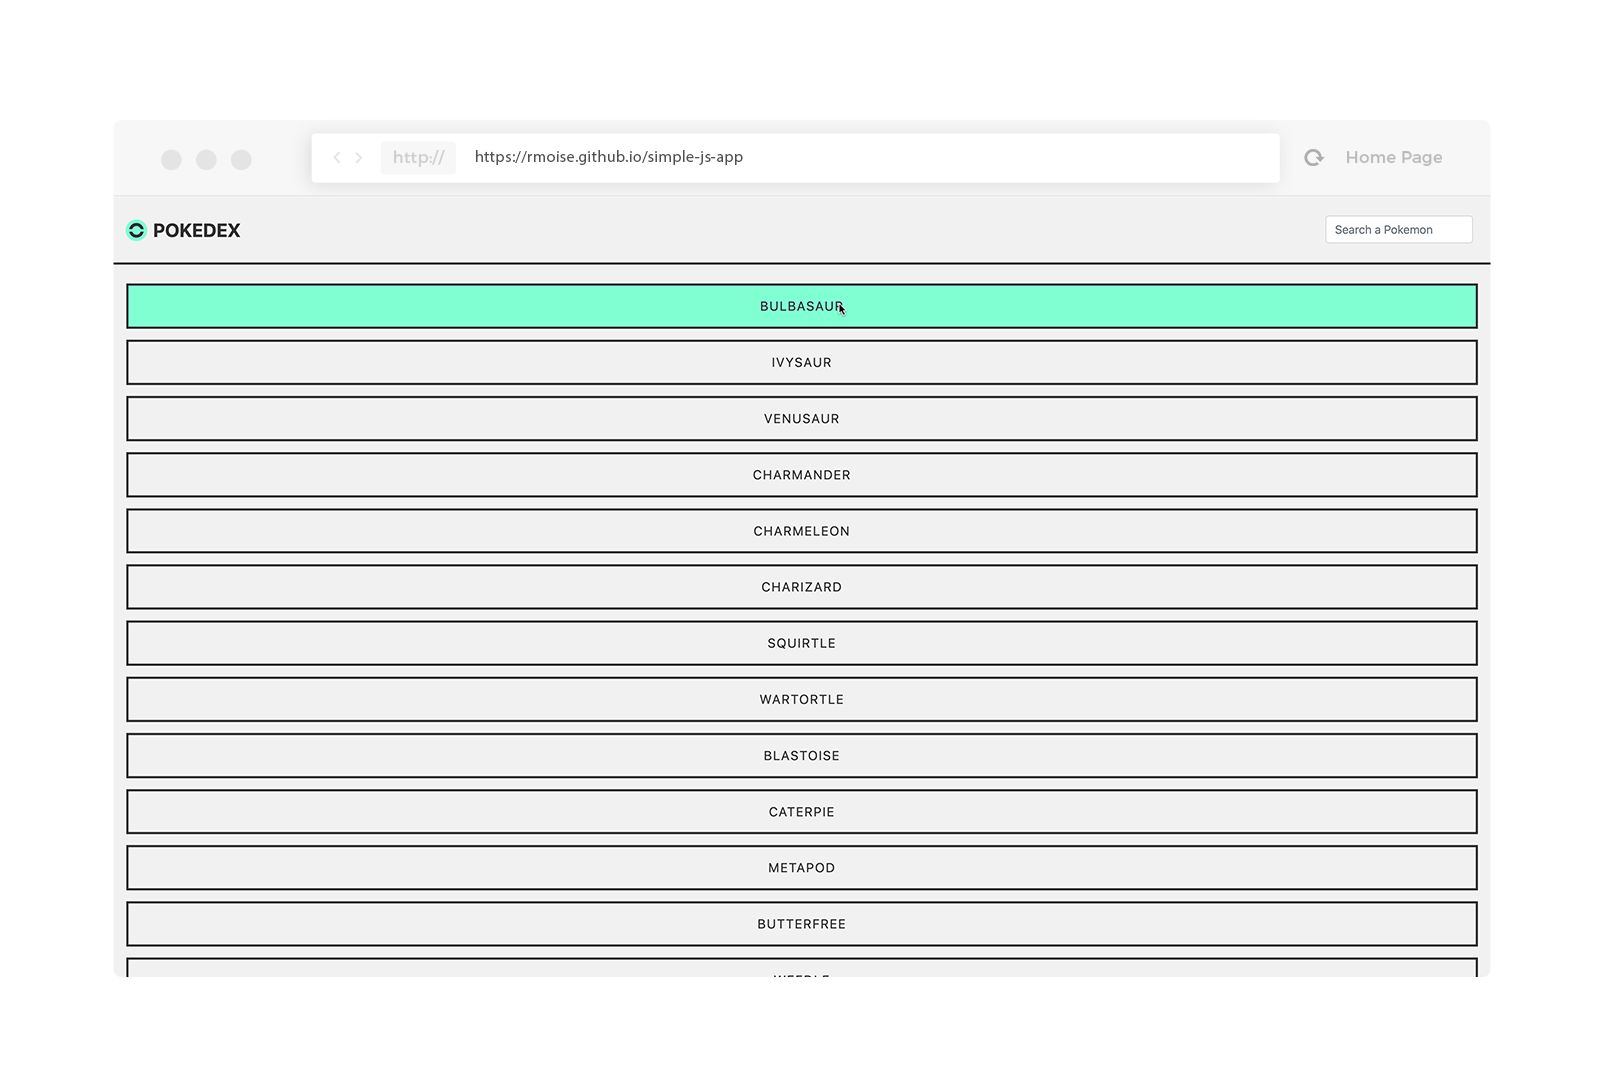
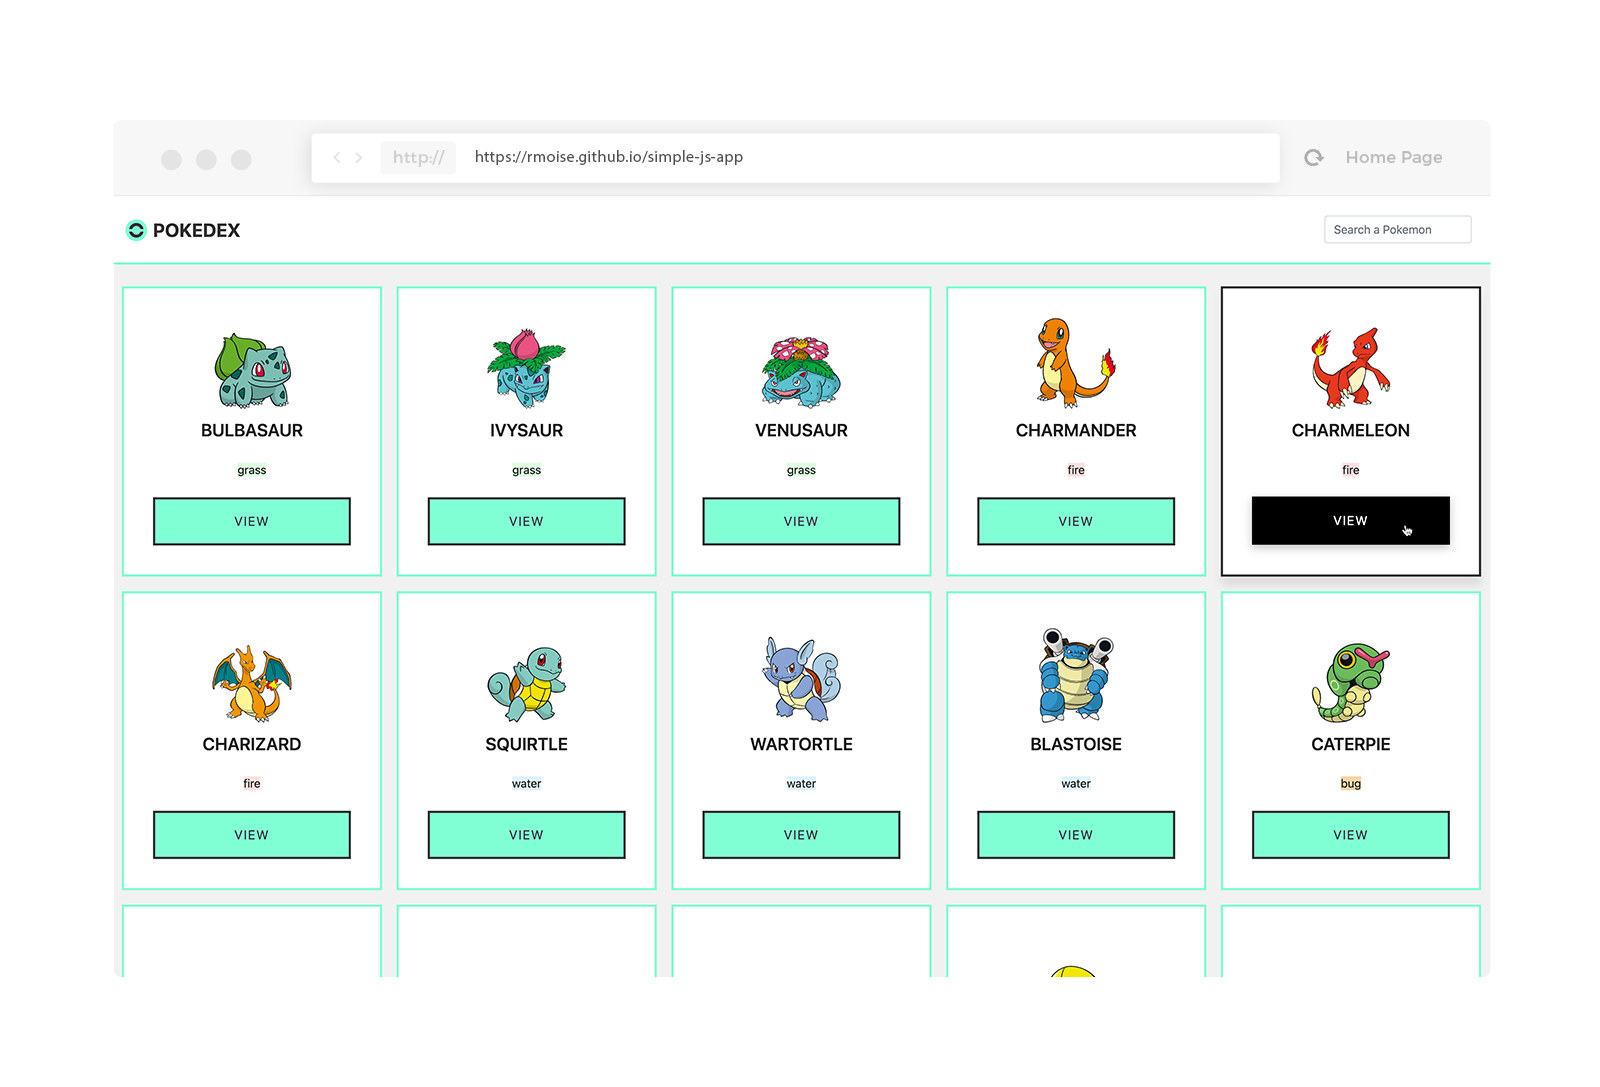
Merge branch 'main' of https://github.com/rmoise/simple-js-app

Changed region(s): [[0.0625, 0.2125, 0.9375, 0.9108], [0.6562, 0.8804, 0.6875, 0.9108]]

diff --git a/dist/css/styles.min.css b/dist/css/styles.min.css
@@ -1,1 +1,1 @@
[2 lines of base64/hex data omitted]

diff --git a/dist/js/scripts.min.js b/dist/js/scripts.min.js
@@ -1,2 +1,8 @@
-/* eslint-disable prettier/prettier */
-let pokemonRepository=function(){let e=[];function t(t){"object"==typeof t&&"name"in t&&"detailsUrl"in t?e.push(t):console.log("Pokemon is incorrect")}function n(){return e}function a(){let e=document.createElement("div");e.classList.add("loading"),e.textContent="loading...",document.body.appendChild(e)}function i(){let e=document.querySelector(".loading");e.remove()}function o(e){return a(),fetch(e.detailsUrl).then(function(e){return e.json()}).then(function(t){i(),e.imageUrl=t.sprites.front_default,e.height=t.height,e.types=t.types.map(e=>e.type.name).join(", "),e.weight=t.weight,e.abilities=t.abilities.map(e=>e.ability.name).join(", ")}).catch(function(e){i(),console.error(e)})}let l=document.querySelector("#search-bar");return l.addEventListener("input",function(){let e=document.querySelectorAll(".list-group-item"),t=l.value.toUpperCase(),n=!0;e.forEach(function(e){e.innerText.toUpperCase().indexOf(t)>-1?(e.style.display="",n=!1):(e.style.display="none",$(".error").hide()),n?$(".error").show():$(".error").hide()})}),$(document).bind("keypress",function(e){if(13==e.keyCode){e.preventDefault();$(".navbar-collapse").collapse("hide"),$("#search-bar").blur()}}),$(document).click(function(e){if($(e.target).parents(".navbar-collapse").length<1){let t=$(e.target),n=$(".navbar-collapse");!0!==n.hasClass("show")||t.hasClass("navbar-toggle")||n.collapse("hide")}}),{add:t,getAll:n,addListItem:function t(n){let a=document.querySelector(".pokemon-list"),i=document.createElement("li");i.classList.add("list-group-item");let l=document.createElement("button");l.classList.add("btn","button"),l.innerText=n.name,l.setAttribute("data-toggle","modal"),l.setAttribute("data-target","#pokemonModal"),i.appendChild(l),a.appendChild(i),l.addEventListener("click",function(){(function t(n){o(n).then(function(){let a=$(".modal-body"),i=$(".modal-title"),o=$(".modal-footer");i.empty(),a.empty(),o.empty();let l=$("<h1>"+n.name+"</h1>"),r=$('<img class="modal-img" style="width:30%">');r.attr("src",n.imageUrl);let s=$("<p><b>Height</b> \xa0\xa0\xa0\xa0\xa0\xa0"+n.height+"</p>"),d=$("<p><b>Weight</b> \xa0\xa0\xa0\xa0\xa0"+n.weight+"</p>"),p=$("<p><b>Types</b> \xa0\xa0\xa0\xa0\xa0\xa0\xa0"+n.types+"</p>"),c=$("<p><b>Abilities</b> \xa0\xa0\xa0"+n.abilities+"</p>"),u=document.createElement("button");u.classList.add("btn"),u.innerText="Previous",u.addEventListener("click",()=>{var a;return a=n,void t(e[h(a)-1])}),0===h(n)&&u.classList.add("pokemon-nav1--disabled");let m=document.createElement("div");function h(t){return e.findIndex(e=>e.name===t.name)}m.classList.add("btn"),m.innerText="Next",m.addEventListener("click",()=>{var a;return a=n,void t(e[h(a)+1])}),150===h(n)&&m.classList.add("pokemon-nav2--disabled"),i.append(l),a.append(r),a.append(s),a.append(d),a.append(p),a.append(c),o.append(u),o.append(m)})})(n)})},loadList:function e(){return a(),fetch("https://pokeapi.co/api/v2/pokemon/?limit=150").then(function(e){return e.json()}).then(function(e){i(),e.results.forEach(function(e){t({name:e.name,detailsUrl:e.url})})}).catch(function(e){i(),console.error(e)})},loadDetails:o}}();pokemonRepository.loadList().then(function(){pokemonRepository.getAll().forEach(function(e){pokemonRepository.addListItem(e)})});
+let pokemonRepository=function(){let e=[];function t(t){"object"==typeof t&&"name"in t&&"detailsUrl"in t?e.push(t):console.log("Pokemon is incorrect")}function n(){return e}function a(){let e=document.createElement("div");e.classList.add("loading"),e.textContent="loading...",document.body.appendChild(e)}function i(){let e=document.querySelector(".loading");e.remove()}function l(e){return a(),fetch(e.detailsUrl).then(function(e){return e.json()}).then(function(t){i(),e.imageUrl=t.sprites.other["official-artwork"].front_default,e.height=t.height,e.types=t.types.map(e=>e.type.name).join(", "),e.weight=t.weight,e.abilities=t.abilities.map(e=>e.ability.name).join(", "),e.id=t.id}).catch(function(e){i(),console.error(e)})}let o=document.querySelector("#search-bar");return o.addEventListener("input",function(){let e=document.querySelectorAll(".card"),t=o.value.toUpperCase(),n=!0;e.forEach(function(e){e.innerText.toUpperCase().indexOf(t)>-1?(e.style.display="",n=!1):(e.style.display="none",$(".error").hide()),n?$(".error").show():$(".error").hide()})}),$(document).bind("keypress",function(e){if(13==e.keyCode){e.preventDefault();$(".navbar-collapse").collapse("hide"),$("#search-bar").blur()}}),$(document).click(function(e){if($(e.target).parents(".navbar-collapse").length<1){let t=$(e.target),n=$(".navbar-collapse");!0!==n.hasClass("show")||t.hasClass("navbar-toggle")||n.collapse("hide")}}),{add:t,getAll:n,addListItem:function t(n){l(n).then(function(){let e=document.createElement("p"),t=`</div>
+              <div class="item__informations">
+                  <div class="container__type">
+                      <small class="type ${n.types.split(",")[0]}">
+                        ${n.types.split(",")[0]}
+                      </small>
+                  </div>
+              </div>`;e.innerHTML+=t;let a=document.createElement("h4");a.classList.add("card-title"),a.innerHTML=n.name;let l=document.createElement("img");l.setAttribute("src",n.imageUrl),l.classList.add("pokemon-img"),i.append(l),i.appendChild(a),i.appendChild(e),i.appendChild(o)});let a=document.querySelector("#pokemon-list"),i=document.createElement("li");i.classList.add("card");let o=document.createElement("button");o.classList.add("btn","button"),o.innerText="View",o.setAttribute("data-toggle","modal"),o.setAttribute("data-target","#pokemonModal"),a.appendChild(i),o.addEventListener("click",function(){(function t(n){l(n).then(function(){let a=$(".modal-body"),i=$(".modal-title"),l=$(".modal-footer");i.empty(),a.empty(),l.empty();let o=$("<h1>"+n.name+"</h1>"),r=$('<img class="modal-img" style="width:30%">');r.attr("src",n.imageUrl);let s=$("<p><b>Height</b> \xa0\xa0\xa0\xa0\xa0\xa0"+n.height+"</p>"),d=$("<p><b>Weight</b> \xa0\xa0\xa0\xa0\xa0"+n.weight+"</p>"),p=$("<p><b>Types</b> \xa0\xa0\xa0\xa0\xa0\xa0\xa0"+n.types+"</p>"),c=$("<p><b>Abilities</b> \xa0\xa0\xa0"+n.abilities+"</p>"),u=document.createElement("button");u.classList.add("btn"),u.innerText="Previous",u.addEventListener("click",()=>{var a;return a=n,void t(e[h(a)-1])}),0===h(n)&&u.classList.add("pokemon-nav1--disabled");let m=document.createElement("div");function h(t){return e.findIndex(e=>e.name===t.name)}m.classList.add("btn"),m.innerText="Next",m.addEventListener("click",()=>{var a;return a=n,void t(e[h(a)+1])}),150===h(n)&&m.classList.add("pokemon-nav2--disabled"),i.append(o),a.append(r),a.append(s),a.append(d),a.append(p),a.append(c),l.append(u),l.append(m)})})(n)})},loadList:function e(){return a(),fetch("https://pokeapi.co/api/v2/pokemon/?limit=150").then(function(e){return e.json()}).then(function(e){i(),e.results.forEach(function(e){t({name:e.name,detailsUrl:e.url})})}).catch(function(e){i(),console.error(e)})},loadDetails:l}}();pokemonRepository.loadList().then(function(){pokemonRepository.getAll().forEach(function(e){pokemonRepository.addListItem(e)})});

diff --git a/src/css/styles.css b/src/css/styles.css
@@ -27,28 +27,17 @@ p {
 
 /* Sets the styles for the button */
 .btn {
-  align-items: center;
   box-shadow: rgba(0, 0, 0, 0.02) 0 1px 3px 0;
   box-sizing: border-box;
   cursor: pointer;
-  display: inline-flex;
-  font-weight: 600;
-  justify-content: center;
-  line-height: 1.25;
-  margin: 0;
-  min-height: 3rem;
-  position: relative;
-  text-decoration: none;
   transition: all 250ms;
-  user-select: none;
   -webkit-user-select: none;
   touch-action: manipulation;
-  vertical-align: baseline;
   width: 100%;
   background-color: aquamarine;
   border: 3px solid rgb(51, 51, 51);
   color: #333;
-  padding: 15px 20px;
+  padding: 17px 20px;
   font-size: 1.1rem;
   text-transform: uppercase;
   letter-spacing: 0.1rem;
@@ -82,24 +71,18 @@ p {
 }
 
 @keyframes bounce {
-  0%,
-  100%,
-  20%,
-  50%,
-  80% {
-    -webkit-transform: translateY(0);
-    -ms-transform: translateY(0);
-    transform: translateY(0);
+  20% {
+    transform: translateY(-6px);
   }
   40% {
-    -webkit-transform: translateY(-30px);
-    -ms-transform: translateY(-30px);
-    transform: translateY(-30px);
+    transform: translateY(0px);
   }
-  60% {
-    -webkit-transform: translateY(-15px);
-    -ms-transform: translateY(-15px);
-    transform: translateY(-15px);
+
+  80% {
+    transform: translateY(-2px);
+  }
+  100% {
+    transform: translateY(0);
   }
 }
 
@@ -130,7 +113,6 @@ p {
 
   width: 95.12%; /* Change this to whatever width you want. */
 
-  border-bottom: 3px solid #333; /* This creates the border. Replace black with whatever color you want. */
   position: absolute;
   right: 10px;
   left: 10px;
@@ -141,29 +123,39 @@ p {
   font-size: 3.5rem;
   font-weight: 300;
   line-height: 0.6;
-  opacity: 0.9;
+  opacity: 00.9;
 }
 
 /* Sets the styles for the close hover button */
 .close:hover {
-  color: rgb(105, 223, 184);
-  opacity: 0.9;
+  color: aquamarine;
 }
 
 /* Sets the styles for the modal */
 .modal-content {
   border-radius: 0;
-  border: 3px solid #333;
+  border: 3px solid aquamarine;
   background: #fff;
 }
 
 /* Sets the styles for the image of Pokemons in modal */
-img {
-  margin-top: 15px;
+.pokemon-img,
+.modal-img {
+  max-width: 50%;
+  max-height: 50%;
+  margin: auto;
+  position: relative;
   display: block;
   margin-left: auto;
   margin-right: auto;
-  width: 50%;
+}
+
+.pokemon-img {
+  margin-bottom: 15px;
+}
+
+.container__type {
+  margin-bottom: 10px;
 }
 
 /* Sets the styles for the list of Pokemons */
@@ -204,6 +196,7 @@ img {
 .bg-light {
   background-color: #fff !important;
   border-bottom: 3px solid aquamarine;
+
   padding: 20px;
   /* height: 70px; */
 }
@@ -272,6 +265,10 @@ input[type="search"]::-webkit-search-cancel-button {
 .form-control:focus {
   border-color: #333;
   box-shadow: inset 0 1px 1px rgba(0, 0, 0, 0.075), 0 0 1px 1px #333;
+}
+
+.form-control {
+  width: 100% !important;
 }
 
 /* Change the styles for the input field search bar */
@@ -392,54 +389,6 @@ small {
   font-size: 100%;
 }
 
-.container__type {
-  margin-bottom: 21px;
-}
-
-
-.dropbtn {
-    background-color: #4caf50;
-    color: white;
-    padding: 16px;
-    width: 70%;
-    font-size: 26px;
-    border: none;
-    cursor: pointer;
-}
-
-.dropdown {
-    position: relative;
-    display: inline-block;
-    width: 100%;
-}
-
-.dropdown-content {
-    display: none;
-    position: absolute;
-    background-color: #f9f9f9;
-    min-width: 50%;
-    margin-left: 25%;
-    box-shadow: 0px 8px 16px 0px rgba(0, 0, 0, 0.2);
-    z-index: 1;
-    cursor: pointer;
-    color: black;
-}
-
-.dropdown-content a {
-    color: black;
-    padding: 12px 16px;
-    text-decoration: none;
-    display: block;
-}
-
-.dropdown-content a:hover {
-    background-color: #f1f1f1;
-}
-
-.dropdown:hover .dropdown-content {
-    display: block;
-}
-
-.dropdown:hover .dropbtn {
-    background-color: #3e8e41;
+.loading {
+  padding: 20px;
 }

diff --git a/index.html b/index.html
@@ -5,31 +5,21 @@
     <meta charset="utf-8" />
     <meta name="viewport" content="width=device-width, initial-scale=1" />
     <!-- Adds the app name in tab of browser -->
-    <title>Simple JS Apps Copy</title>
+    <title>Simple JS App</title>
     <!-- Adds the favicon in tab of browser -->
-    <link rel="shortcut icon" href="./img/favicon-32x32.png" type="image/x-icon" />
+    <link rel="shortcut icon" href="img/favicon-32x32.png" type="image/x-icon" />
     <!-- Adds a link to BootstrapCDN. Bootstrap CSS. -->
     <!-- Inserts the link to BootstrapCDN before any other custom styles file -->
     <link rel="stylesheet" href="https://cdn.jsdelivr.net/npm/bootstrap@4.3.1/dist/css/bootstrap.min.css" integrity="sha384-ggOyR0iXCbMQv3Xipma34MD+dH/1fQ784/j6cY/iJTQUOhcWr7x9JvoRxT2MZw1T" crossorigin="anonymous">
     <!-- Inserts the link to the custom styles file -->
-    <link href="src/css/styles.css" rel="stylesheet" type="text/css" />
+    <link href="dist/css/styles.min.css" rel="stylesheet" type="text/css" />
 </head>
 
 <body>
 
     <!-- Adds the basic nav Bar -->
     <nav class="navbar sticky-top navbar-expand-lg navbar-light bg-light">
-        <div class="dropdown menu-container col">
-            <button class="category-filter" id="dropdownMenuOffset" type="button" data-toggle="dropdown" aria-haspopup="true" aria-expanded="false">
-                <svg class="icons" xmlns="http://www.w3.org/2000/svg" viewbox="0 0 512 512" height="25px" width="25px">
-                    <!--! Font Awesome Pro 6.2.0 by @fontawesome - https://fontawesome.com License - https://fontawesome.com/license (Commercial License) Copyright 2022 Fonticons, Inc. -->
-                    <path d="M3.9 54.9C10.5 40.9 24.5 32 40 32H472c15.5 0 29.5 8.9 36.1 22.9s4.6 30.5-5.2 42.5L320 320.9V448c0 12.1-6.8 23.2-17.7 28.6s-23.8 4.3-33.5-3l-64-48c-8.1-6-12.8-15.5-12.8-25.6V320.9L9 97.3C-.7 85.4-2.8 68.8 3.9 54.9z" />
-                </svg>
-            </button>
-            <ul id="category-dropdown" class="dropdown-menu" aria-labelledby="dropdownMenuOffset">
-                <span class="dropdown-item-text">Types</span>
-            </ul>
-        </div>
+
         <!-- Adds the Pokemon logo inside the nav Bar -->
         <a class="navbar-brand" href="index.html"><span class="icon"><img class="img-logo" src="img/logo.svg"></span><span class="text">POKEDEX</span></a>
         <button class="navbar-toggler custom-toggler" type="button" data-toggle="collapse" data-target=".navbar-collapse" aria-controls="navbarSupportedContent" aria-expanded="false" aria-label="Toggle navigation">
@@ -50,8 +40,6 @@
     <div class="container col-sm col-md col-lg">
         <ul id="pokemon-list"></ul>
     </div>
-
-
 
     <div class="error">No Pokemon found from your search</div>
 
@@ -79,9 +67,9 @@
     <script src="https://code.jquery.com/jquery-3.3.1.min.js" integrity="sha256-FgpCb/KJQlLNfOu91ta32o/NMZxltwRo8QtmkMRdAu8=" crossorigin="anonymous"></script>
     <script src="https://cdn.jsdelivr.net/npm/popper.js@1.14.7/dist/umd/popper.min.js" integrity="sha384-UO2eT0CpHqdSJQ6hJty5KVphtPhzWj9WO1clHTMGa3JDZwrnQq4sF86dIHNDz0W1" crossorigin="anonymous"></script>
     <script src="https://cdn.jsdelivr.net/npm/bootstrap@4.3.1/dist/js/bootstrap.min.js" integrity="sha384-JjSmVgyd0p3pXB1rRibZUAYoIIy6OrQ6VrjIEaFf/nJGzIxFDsf4x0xIM+B07jRM" crossorigin="anonymous"></script>
-    <script src="src/lib/promise-polyfill.js"></script>
-    <script src="src/lib/fetch-polyfill.js"></script>
-    <script src="src/js/scripts.js"></script>
+    <script src="dist/lib/promise-polyfill.min.js"></script>
+    <script src="dist/lib/fetch-polyfill.min.js"></script>
+    <script src="dist/js/scripts.min.js"></script>
 </body>
 
 </html>

diff --git a/src/js/scripts.js b/src/js/scripts.js
@@ -5,8 +5,6 @@ let pokemonRepository = (function () {
     /* Loads the list of 10 Pokemons from an external link */
     let apiUrl = 'https://pokeapi.co/api/v2/pokemon/?limit=150';
 
-    const types = [];
-
     /* This function adds new single item to the pokemonList array */
     function add(pokemon) {
         if (typeof pokemon === 'object' && 'name' in pokemon && 'detailsUrl' in pokemon) {
@@ -258,59 +256,13 @@ let pokemonRepository = (function () {
         }
     });
 
-    // show filtered items and hide the rest
-    function typeFilter(type) {
-        let showFiltered = [];
-        let hideUnfiltered = [];
-        if (type === 'all') {
-            showFiltered = pokemonList;
-        } else {
-            hideUnfiltered = pokemonList.filter(function (pokemon) {
-                // FIND ALL THE ITEMS THAT DO NOT CONTAIN SEARCH KEY
-                if (pokemon.type !== type) {
-                    return pokemon;
-                }
-            });
-
-            showFiltered = pokemonList.filter(function (pokemon) {
-                // FIND ALL THE ITEMS THAT CONTAIN SEARCH KEY
-                if (pokemon.type === type) {
-                    return pokemon;
-                }
-            });
-        }
-
-        hideUnfiltered.map((pokemon) => {
-            document.getElementById(pokemon.id).classList.add('hide-item');
-        });
-        showFiltered.map((pokemon) => {
-            document.getElementById(pokemon.id).classList.remove('hide-item');
-        });
-    }
-
-    // create categories list in dropdown menu
-    function loadTypes() {
-        $('#category-dropdown').append(
-            `<li class="dropdown-item"><button id="all" onclick="pokemonRepository.typeFilter('all')" class="filter-button btn">All Categories</button></li>`
-        );
-        types.forEach((type) =>
-            $('#category-dropdown').append(
-                `<li class="dropdown-item"><button id="${type}" onclick="pokemonRepository.typeFilter('${type}')" class="filter-button btn">${
-                    type.charAt(0).toUpperCase() + type.slice(1)
-                }</button></li>`
-            )
-        );
-    }
-
     // Defines the keywords for the function that are used for execution outside of IIFE
     return {
         add: add,
         getAll: getAll,
         addListItem: addListItem,
         loadList: loadList,
-        loadDetails: loadDetails,
-        loadTypes: loadTypes,
-        typeFilter: typeFilter
+        loadDetails: loadDetails
     };
 })();
 
